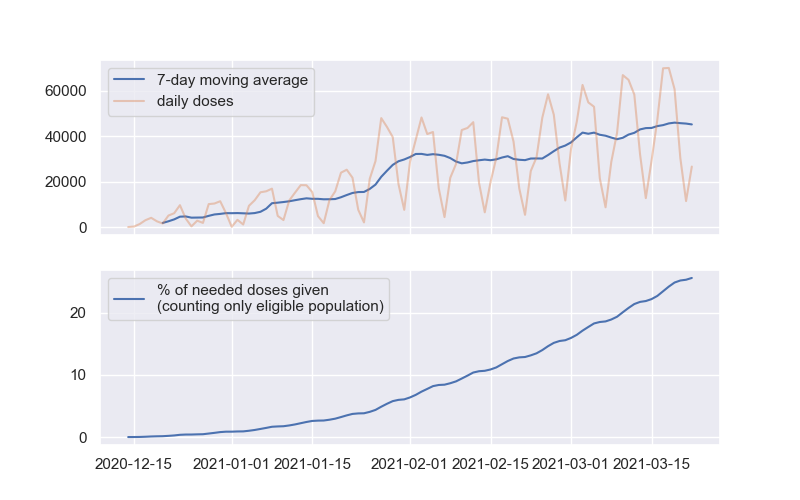
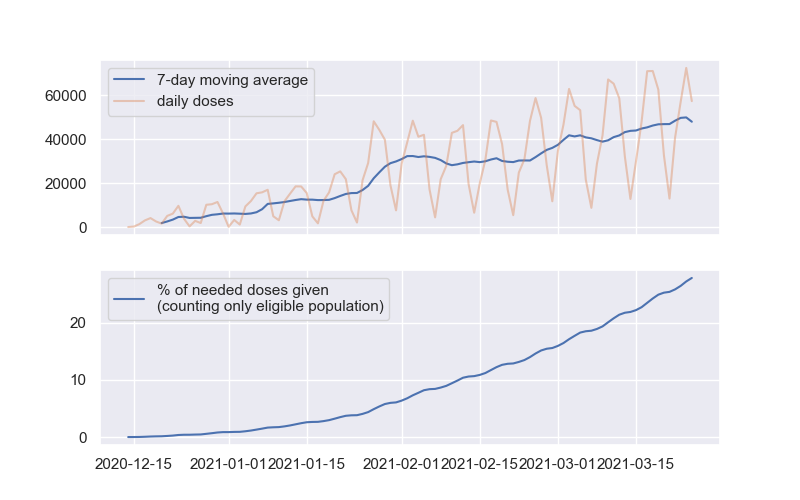
2021-03-27

diff --git a/trax.py b/trax.py
@@ -6,7 +6,8 @@ import seaborn as sns
 
 POPULATION = 5_822_434  # https://en.wikipedia.org/wiki/Wisconsin
 JNJ = {
-    "2021-03-22": 43057  # This is when they started publishing manufacturer
+    "2021-03-22": 43_057,  # This is when they started publishing manufacturer
+    "2021-03-25": 51_190,
 }
 
 
@@ -27,7 +28,10 @@ def analyze():
     try:
         jnj_rate = JNJ[date.max().date().isoformat()] / vax.sum()
     except KeyError:
-        raise RuntimeError("Please update the JNJ dict in this file.")
+        raise RuntimeError(
+            "Please update the JNJ dict in this file:"
+            f"no data found for {date.max().date().isoformat()}"
+        )
 
     # Compute the daily averages
     daily_avg = vax.iloc[-7:].mean()
